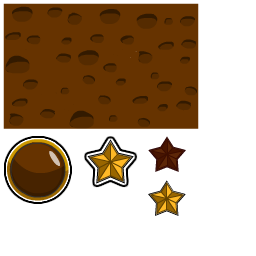
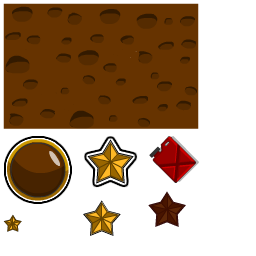
adding bonus

Changed region(s): [[0.5625, 0.5312, 0.7812, 0.9062], [0.3125, 0.7812, 0.4688, 0.9375], [0.0, 0.8438, 0.0938, 0.9062]]

diff --git a/exports/Level.js b/exports/Level.js
@@ -25,7 +25,7 @@ function Level(stage, engine, data, callBack = null) {
   // TODO: gerer les landzones ds les json
   if(this.data.levels[this.state.game.currentLevel].fuelMax){
     this.state.game.fuelMax = this.data.levels[this.state.game.currentLevel].fuelMax;
-    this.state.game.fuelCurrent = this.data.levels[this.state.game.currentLevel].fuelMax;
+    this.state.game.fuel = this.data.levels[this.state.game.currentLevel].fuelMax;
   }
   this.loadTerrain(this.data.levels[this.state.game.currentLevel]);
 }
@@ -58,6 +58,7 @@ Level.prototype.init = function () {
   // todo: gerer les landzones ds les json
   this.addlandZones();
   this.addStars();
+  this.addBonus();
 
   // controls
   this.addKeysEvents();
@@ -94,16 +95,47 @@ Level.prototype.addCollisions = function () {
           me.getStar(star);
         }
       });
+
+      // bonus
+      me.bonus.forEach((b) => {
+        if (pair.bodyA === b.body) {
+          me.getBonus(b);
+        } else if (pair.bodyB === b.body) {
+          me.getBonus(b);
+        }
+      });
     }
   });
 };
+/**
+ * getBonus
+ */
+Level.prototype.getBonus = function (bonus) {
+ this.state.log('getBonus !!! ', bonus)
+ if(!bonus.isCatched){
+   gsap.to(bonus.body.position, {
+     y: -this.y,
+     x: -100,
+     duration: 0.75,
+     ease: "elastic.in(1, 0.75)",
+   });
+   bonus.isCatched = true;
+   this.state.game[bonus.type] += bonus.amount;
+ }
+
+}
 /**
  * getStar
  */
 Level.prototype.getStar = function (star) {
  this.state.log('getStar !!! ', star)
  if(!star.isCatched){
-   gsap.to(star.body.position,{y:-100,duration:1,ease:"elastic.in(1, 0.5)"})
+   gsap.to(star.body.position, {
+     y: -this.y,
+     x: -100,
+     duration: 0.75,
+     ease: "elastic.in(1, 0.75)",
+   });
    star.isCatched = true;
  }
 
@@ -128,11 +160,12 @@ Level.prototype.update = function () {
   
   this.updateLander();
   this.updateStars();
+  this.updateBonus();
 };
 Level.prototype.updateLander = function(){
   const m = this;
 
-  if (this.state.keyUp && this.state.keyRight && this.state.keyLeft && (this.state.game.fuelCurrent > 0)) {
+  if (this.state.keyUp && this.state.keyRight && this.state.keyLeft && (this.state.game.fuel > 0)) {
     if (this.state.keyUp.isDown) {
       let landerRot = (m.lander.body.angle * 180) / Math.PI;
       let velY =
@@ -149,24 +182,24 @@ Level.prototype.updateLander = function(){
         { x: m.lander.body.position.x, y: m.lander.body.position.y },
         { x: velX / 200, y: velY / 200 }
       );
-      this.state.game.fuelCurrent -= m.data.lander.motor.fuelConsumption;
+      this.state.game.fuel -= m.data.lander.motor.fuelConsumption;
     }
     if (this.state.keyRight.isDown) {
       Matter.Body.setAngularVelocity(
         m.lander.body,
         m.lander.body.angularVelocity + m.data.lander.motor.stabilizersPower
       );
-      this.state.game.fuelCurrent -= (m.data.lander.motor.fuelConsumption/10)
+      this.state.game.fuel -= (m.data.lander.motor.fuelConsumption/10)
     }
     if (this.state.keyLeft.isDown) {
       Matter.Body.setAngularVelocity(
         m.lander.body,
         m.lander.body.angularVelocity - m.data.lander.motor.stabilizersPower
         );
-        this.state.game.fuelCurrent -= (m.data.lander.motor.fuelConsumption/10)
+        this.state.game.fuel -= (m.data.lander.motor.fuelConsumption/10)
     }
   } else {
-    this.state.game.fuelCurrent = 0;
+    this.state.game.fuel = 0;
     this.lander.sprite.hideStabilizersLeft();
     this.lander.sprite.hideStabilizersRight();
     this.lander.sprite.hideReactor();
@@ -358,6 +391,18 @@ Level.prototype.getLander = function () {
   return this.lander;
 };
 
+Level.prototype.updateBonus= function () {
+  const me = this;
+  if(this.data.levels[this.state.game.currentLevel].bonus){
+    this.bonus.forEach((b)=>{
+      b.sprite.position = b.body.position;    
+      if (me.state.isDebug) {
+        b.wireFrame.position = b.body.position;
+      }
+    })
+  }
+  
+}
 Level.prototype.updateStars = function () {
   const me = this;
   this.stars.forEach((star)=>{
@@ -366,6 +411,37 @@ Level.prototype.updateStars = function () {
       star.wireFrame.position = star.body.position;
     }
   })
+}
+Level.prototype.addBonus = function () {
+  if(!this.data.levels[this.state.game.currentLevel].bonus){
+    return;
+  }
+  const me = this;
+  let aBonus = this.data.levels[this.state.game.currentLevel].bonus;
+  let bonusSize = 58;
+  aBonus.forEach((bonusInfos) => {
+    // body
+    let b = Matter.Bodies.circle((bonusInfos.x),(bonusInfos.y),(bonusSize/2),{isStatic:true, isSensor:true})
+    // wireFrame
+    let bw = new PIXI.Graphics();
+      // Circle
+      bw.lineStyle(2, 0xFEEB77, 1);
+      bw.drawCircle(0, 0, (bonusSize/2));
+      bw.endFill();
+      bw.position.x = bonusInfos.x;
+      bw.position.y = bonusInfos.y; 
+    if (me.state.isDebug) {
+      me.addChild(bw);
+    }
+    // sprite
+    let bsp = new BonusSprite(bonusInfos.type, bonusInfos.amount)//new PIXI.Sprite(PIXI.Texture.from(`bonus_${bonusInfos.type}0000`))
+    
+    bsp.x = bonusInfos.x
+    bsp.y = bonusInfos.y
+    this.addChild(bsp)
+    let bonus = {body:b,sprite:bsp,wireFrame:bw, type:bonusInfos.type, amount:bonusInfos.amount}
+    me.bonus.push(bonus);
+  });
 }
 Level.prototype.addStars = function () {
   let aStars = this.data.levels[this.state.game.currentLevel].stars;
@@ -396,6 +472,8 @@ Level.prototype.addStars = function () {
     me.stars.push(star);
   });
 }
+
+
 Level.prototype.addlandZones = function () {
   const me = this;
   let lZonesFromJson = this.data.levels[this.state.game.currentLevel].landZones;
@@ -425,17 +503,17 @@ Level.prototype.getLandZones = function () {
  * @returns {Array} all bodies in the level
  */
 Level.prototype.getAllBodiesInThisLevel = function () {
-  // landing zones bodies
-  let lz = this.getLandZones();
-  // lander body
-  let l = this.getLander().body;
-  // terrain body
-  let t = this.terrain.body;
-
-  let stars = this.stars.map((s)=>s.body)
+  
+  let bodies = [
+    this.getLandZones(),
+    this.getLander().body,
+    this.terrain.body,
+    this.stars.map((s)=>s.body),
+    this.bonus.map((b)=>b.body),
+  ]
 
   // return a flatten array of all bodies in the level
-  return lz.concat(l).concat(t).concat(stars).flat();
+  return bodies.flat();
 };
 
 /**
@@ -486,33 +564,33 @@ Level.prototype.addKeysEvents = function () {
   // lander controls
   this.keyLeft.press = () => {
     me.state.log("keyLeft pressed");
-    if(this.state.game.fuelCurrent == 0) return;
+    if(this.state.game.fuel == 0) return;
     me.lander.sprite.showStabilizersLeft();
   };
   this.keyLeft.release = () => {
     me.state.log("keyLeft Released");
-    if(this.state.game.fuelCurrent == 0) return;
+    if(this.state.game.fuel == 0) return;
     me.lander.sprite.hideStabilizersLeft();
   };
   this.keyRight.press = () => {
     me.state.log("keyRight pressed");
-    if(this.state.game.fuelCurrent == 0) return;
+    if(this.state.game.fuel == 0) return;
     me.lander.sprite.showStabilizersRight();
   };
   this.keyRight.release = () => {
     me.state.log("keyRight Released");
-    if(this.state.game.fuelCurrent == 0) return;
+    if(this.state.game.fuel == 0) return;
     me.lander.sprite.hideStabilizersRight();
   };
 
   this.keyUp.press = () => {
     me.state.log("Up pressed");
-    if(this.state.game.fuelCurrent == 0) return;
+    if(this.state.game.fuel == 0) return;
     me.lander.sprite.showReactor();
   };
   this.keyUp.release = () => {
     me.state.log("Up Released");
-    if(this.state.game.fuelCurrent == 0) return;
+    if(this.state.game.fuel == 0) return;
     me.lander.sprite.hideReactor();
   };
 };

diff --git a/exports/BonusSprite.js b/exports/BonusSprite.js
@@ -1,0 +1,35 @@
+function BonusSprite(type, amount){
+  PIXI.Container.call(this)//, PIXI.Texture.from(`bonus_${type}0000`))
+
+  this.graphic = new PIXI.Sprite(PIXI.Texture.from(`bonus_${type}0000`))
+  this.graphic.anchor.set(0.5);
+  this.addChild(this.graphic);
+  let tAmount = (amount + "")
+  this.tfAmount = this.showAmount({
+    font: "DeadFontWalking",
+    fontSize: 20,
+    color: BonusSprite.colorFromType[type],
+    text: tAmount,
+    x: Math.ceil(-((tAmount.length)*10)/2),
+    y: -10,
+  });
+  this.tfAmount.interactive = true;
+  this.tfAmount.buttonMode = true;
+  this.addChild(this.tfAmount);
+  State.getInstance().log(this);
+}
+BonusSprite.prototype = Object.create(PIXI.Container.prototype)
+
+
+BonusSprite.colorFromType = {
+  fuel:"#f7afaf"
+}
+BonusSprite.prototype.showAmount = function (params) {
+  let tf = new PIXI.extras.BitmapText(params.text, {
+    font: `${params.fontSize}px ${params.font}`,
+    tint: params.color.replace("#", "0x"),
+  });
+  tf.x = params.x;
+  tf.y = params.y;
+  return tf;
+};

diff --git a/exports/Ui.js b/exports/Ui.js
@@ -5,7 +5,7 @@ function Ui(data) {
     font: "DeadFontWalking",
     fontSize: 20,
     color: "#ffffff",
-    text: "500/500",
+    text: this.state.game.fuel+"/"+this.state.game.fuelMax,
     x: 5,
     y: 5,
   });
@@ -58,8 +58,8 @@ Ui.prototype.updateTextField = function (tf, text, tint = null) {
 Ui.prototype.update = function () {
   this.updateTextField(
     this.fuel,
-    Math.floor(this.state.game.fuelCurrent) + "/" + this.state.game.fuelMax,
-    ((Math.abs(this.state.game.fuelCurrent)>= 50)?"#00ff00":"#ff0000").replace("#", "0x")
+    Math.floor(this.state.game.fuel) + "/" + this.state.game.fuelMax,
+    ((Math.abs(this.state.game.fuel)>= 50)?"#00ff00":"#ff0000").replace("#", "0x")
   );
   this.updateTextField(
     this.speedX,

diff --git a/index.html b/index.html
@@ -21,7 +21,7 @@
     
     <!-- pixi -->
     <script src="./lib/pixi.js"></script>
-    
+
     <!-- svg stuffs -->
     <script src="./lib/pathseg.js"></script>
     <script src="./lib/decomp.min.js"></script>
@@ -43,6 +43,7 @@
     <script src="./exports/Stabilizer.js"></script>
     <script src="./exports/Reactor.js"></script>
     <script src="./exports/LanderBody.js"></script>
+    <script src="./exports/BonusSprite.js"></script>
     <script src="./exports/Lander.js"></script>
     <script src="./exports/Main.js"></script>
 

diff --git a/exports/Main.js b/exports/Main.js
@@ -1,10 +1,13 @@
 function Main(data) {
   this.loader = document.getElementById("loader");
   this.view = document.getElementById("game-canvas");
+  
+  this.data = data;
 
   this.state = State.getInstance();
+  this.state.game.fuelMax = this.data.lander.motor.fuel
+  this.state.game.fuel= this.data.lander.motor.fuel
 
-  this.data = data;
 
   // this.Engine = Matter.Engine;
   // this.World = Matter.World;

diff --git a/exports/State.js b/exports/State.js
@@ -24,7 +24,7 @@ const State = (function () {
             speedY:0,
             orientation:0,
             fuelMax:500,
-            fuelCurrent:500,
+            fuel:500,
         }
         this.log = function(...arg){
             if(instance.isDebug){
